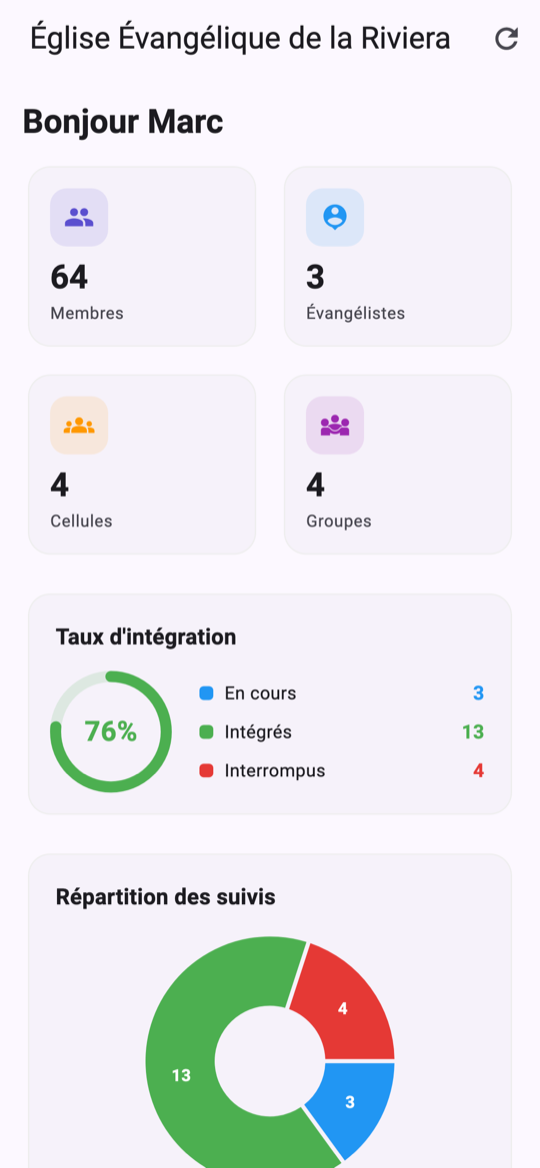
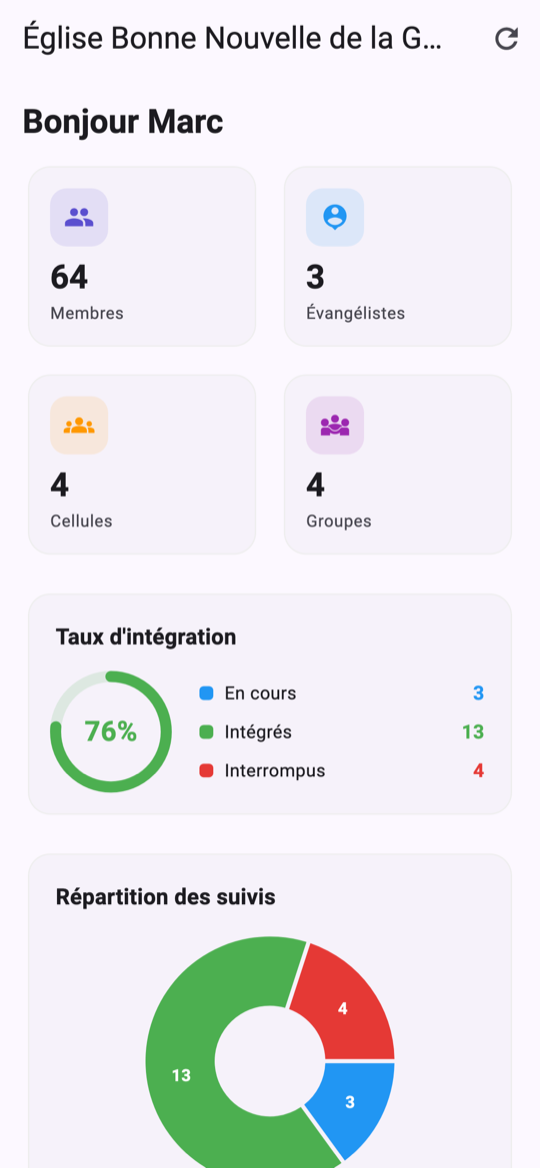
Démo Angré, captures refaites, défauts qu'elles ont révélés
- Captures de l'app (24, dont connexion par code, invitation, changer
  d'église) et du back-office sur l'Église Bonne Nouvelle de la Grâce de Angré.
- Invitation : retours à la ligne conservés (le widget de copie les écrasait),
  compte en lecture seule ; titre « Inviter … » et une seule poignée dans l'app.
- Numéro masqué lisible : « +225 07 •• •• •• 01 ».
- Présence du dimanche : s'ouvre sur le dernier dimanche, pas sur le jour de
  saisie (une présence datée d'un vendredi ne rejoint aucun culte).
- Prolonger : on part de 2 semaines à ajouter, pas de la durée entière (6+6).
- Guide d'utilisation accessible depuis les paramètres de l'app.
- Serveur factice des captures aligné sur le serveur (À attribuer compte aussi
  les fiches à compléter).

Changed region(s): [[0.0296, 0.0, 0.563, 0.0616], [0.6222, 0.0, 0.8296, 0.0616]]

diff --git a/flutter_app/test/support/demo_server.dart b/flutter_app/test/support/demo_server.dart
@@ -8,7 +8,13 @@
 /// pour que le manuel, l'app et le back-office racontent la même histoire.
 library;
 
-const demoChurch = 'Église Évangélique de la Riviera';
+const demoChurch = 'Église Bonne Nouvelle de la Grâce de Angré';
+const demoInvitation = 'Bonjour Fatou Cissé,\n\n'
+    'Vous avez un compte responsable de cellule dans l\'application Suivi Évangélisation '
+    '($demoChurch).\n'
+    '1. Installez l\'application : https://iyf.ebng.world/apps/suivi-evangelisation\n'
+    '2. Saisissez votre numéro +225 07 00 05 05 05\n'
+    '3. Recopiez le code reçu par WhatsApp ou SMS.';
 
 Map<String, dynamic> _week(int n, {bool culte = false, bool pointe = false, bool appel = false,
         bool visite = false, String etat = 'good', int score = 0, String notes = ''}) =>
@@ -71,7 +77,7 @@ Map<String, dynamic> _person(int id, String name, String first, String type,
     {
       'id': id, 'name': name, 'first_name': first, 'phone': '+225 07 00 ${id}0 ${id}0 $id',
       'gender': toComplete ? '' : gender, 'to_complete': toComplete, 'member_type': type,
-      'district_id': 1, 'district_name': 'Riviera 2',
+      'district_id': 1, 'district_name': 'Angré 8e tranche',
       'prayer_cell_id': cell.isEmpty ? false : 1, 'prayer_cell_name': cell,
       'age_group_id': group.isEmpty ? false : 1, 'age_group_name': group, 'age': age,
       'marital_status': 'single', 'invited_by_id': false, 'invited_by_name': '',
@@ -87,8 +93,8 @@ final List<Map<String, dynamic>> demoMembers = [
       label: '8 semaines — Événement d\'origine (Camp de Toussaint 2026)'),
   _person(13, 'Kouassi', 'Esther', 'new', age: 27),
   _person(14, 'Diallo', 'Moussa', 'interrupted', gender: 'male', age: 35),
-  _person(15, 'Ouattara', 'Fanta', 'integrated', cell: 'Cellule Riviera 2', group: 'Jeunes', age: 22),
-  _person(16, 'Yapi', 'Serge', 'established', gender: 'male', cell: 'Cellule Riviera 2', group: 'Mariés 25-35', age: 33),
+  _person(15, 'Ouattara', 'Fanta', 'integrated', cell: 'Cellule Angré 8e tranche', group: 'Jeunes', age: 22),
+  _person(16, 'Yapi', 'Serge', 'established', gender: 'male', cell: 'Cellule Angré 8e tranche', group: 'Mariés 25-35', age: 33),
   _person(17, 'Koffi', 'Jean', 'in_followup', gender: 'male', age: 28),
   _person(18, 'Aké', 'Nadège', 'new', toComplete: true),
 ];
@@ -106,8 +112,8 @@ final Map<String, dynamic> todoEvangelist = {
 };
 
 final Map<String, dynamic> todoManager = {
-  'status': 'success', 'count': 6,
-  'summary': '1\u00a0décision(s) à prendre, 2\u00a0personne(s) à attribuer, 1\u00a0évangéliste(s) en retard, 1\u00a0fiche(s) à compléter',
+  'status': 'success', 'count': 7,
+  'summary': '1\u00a0décision(s) à prendre, 3\u00a0personne(s) à attribuer, 1\u00a0évangéliste(s) en retard, 1\u00a0fiche(s) à compléter',
   'items': [
     {'kind': 'decision_due', 'followup_id': 101, 'member_id': 10,
      'title': 'Décision à prendre : Konan Aya',
@@ -115,6 +121,8 @@ final Map<String, dynamic> todoManager = {
     {'kind': 'to_assign', 'member_id': 12, 'title': 'À attribuer : Bamba Ibrahim',
      'detail': '8 semaines — Événement d\'origine (Camp de Toussaint 2026)'},
     {'kind': 'to_assign', 'member_id': 13, 'title': 'À attribuer : Kouassi Esther',
+     'detail': '6 semaines — Réglage de l\'église'},
+    {'kind': 'to_assign', 'member_id': 18, 'title': 'À attribuer : Aké Nadège',
      'detail': '6 semaines — Réglage de l\'église'},
     {'kind': 'to_complete', 'count': 1, 'title': '1\u00a0fiche(s) à compléter',
      'detail': 'Le sexe manque : il oriente le choix du groupe d\'âge.'},
@@ -133,15 +141,15 @@ final Map<String, dynamic> todoCellLeader = {
 
 final Map<String, dynamic> checkpointFanta = {
   'id': 7, 'member_id': 15, 'member_name': 'Ouattara Fanta', 'member_phone': '+225 07 00 15 15 15',
-  'prayer_cell_name': 'Cellule Riviera 2', 'milestone': '3m', 'is_catchup': false,
+  'prayer_cell_name': 'Cellule Angré 8e tranche', 'milestone': '3m', 'is_catchup': false,
   'due_date': '2026-10-15', 'state': 'planned', 'result': '', 'done_date': '',
   'service_count': 11, 'cell_count': 9, 'notes': '', 'baptized': false, 'has_mentor': true,
 };
 
 final Map<String, dynamic> memberYapi = {
-  ..._person(16, 'Yapi', 'Serge', 'established', gender: 'male', cell: 'Cellule Riviera 2',
+  ..._person(16, 'Yapi', 'Serge', 'established', gender: 'male', cell: 'Cellule Angré 8e tranche',
       group: 'Mariés 25-35', age: 33),
-  'date_of_birth': '1993-04-12', 'address': 'Riviera 2, près du marché', 'profession': 'Comptable',
+  'date_of_birth': '1993-04-12', 'address': 'Angré 8e tranche, près du marché', 'profession': 'Comptable',
   'salvation_date': '2026-01-18', 'can_edit': true, 'planned_followup_weeks': 0,
   'baptism_date': '2026-04-05', 'integration_date': '2026-03-15', 'established_date': '2026-09-16',
   'reopen_suggested': false,
@@ -180,7 +188,8 @@ Map<String, dynamic> demoResponse(String path, Map<String, dynamic> params, Stri
   if (ends('/followups/to_assign')) {
     return {
       'status': 'success',
-      'members': demoMembers.where((m) => m['member_type'] == 'new' && m['to_complete'] != true).toList(),
+      // Comme le serveur : toute nouvelle personne, fiche complète ou non.
+      'members': demoMembers.where((m) => m['member_type'] == 'new').toList(),
       'interrupted': [
         {...demoMembers.firstWhere((m) => m['id'] == 14), 'interrupted_on': '2026-09-28',
          'abandon_reason': 'moved', 'abandon_reason_label': 'A déménagé', 'abandon_note': 'Parti à Bouaké'},
@@ -211,12 +220,12 @@ Map<String, dynamic> demoResponse(String path, Map<String, dynamic> params, Stri
   }
   if (ends('/cells')) {
     return {'status': 'success', 'cells': [
-      {'id': 1, 'name': 'Cellule Riviera 2', 'leader_name': 'Fatou Cissé', 'leader_phone': '+225 07 00 05 05 05',
+      {'id': 1, 'name': 'Cellule Angré 8e tranche', 'leader_name': 'Fatou Cissé', 'leader_phone': '+225 07 00 05 05 05',
        'meeting_day': 'friday', 'meeting_time': '19:00', 'meeting_location': 'Chez la famille Cissé',
        'member_count': 2, 'members': [
          {'id': 15, 'name': 'Ouattara Fanta', 'phone': '+225 07 00 15 15 15'},
          {'id': 16, 'name': 'Yapi Serge', 'phone': '+225 07 00 16 16 16'}]},
-      {'id': 2, 'name': 'Cellule Palmeraie', 'leader_name': 'Eric Gnamien', 'leader_phone': '',
+      {'id': 2, 'name': 'Cellule Angré Château', 'leader_name': 'Eric Gnamien', 'leader_phone': '',
        'meeting_day': 'thursday', 'meeting_time': '18:30', 'meeting_location': '', 'member_count': 0,
        'members': []},
     ]};
@@ -230,7 +239,7 @@ Map<String, dynamic> demoResponse(String path, Map<String, dynamic> params, Stri
     ]};
   }
   if (ends('/districts')) {
-    return {'status': 'success', 'districts': [{'id': 1, 'name': 'Riviera 2', 'city': 'Abidjan'}]};
+    return {'status': 'success', 'districts': [{'id': 1, 'name': 'Angré 8e tranche', 'city': 'Cocody'}]};
   }
   if (ends('/dashboard')) {
     return {'status': 'success', 'dashboard': {
@@ -247,16 +256,23 @@ Map<String, dynamic> demoResponse(String path, Map<String, dynamic> params, Stri
   if (ends('/mobile_users')) {
     return {'status': 'success', 'users': [
       {'id': 1, 'name': 'Pasteur Marc Kouadio', 'phone': '+225 07 00 09 09 09', 'role': 'manager', 'active': true,
-       'church_id': 1, 'church_name': demoChurch, 'pin_set': true, 'last_login': '2026-10-15 08:12:00'},
+       'church_id': 1, 'church_name': demoChurch, 'email': '', 'last_login': '2026-10-15 08:12:00'},
       {'id': 2, 'name': 'Awa Koné', 'phone': '+225 07 00 01 01 01', 'role': 'evangelist', 'active': true,
-       'church_id': 1, 'church_name': demoChurch, 'pin_set': true, 'last_login': '2026-10-15 19:40:00'},
+       'church_id': 1, 'church_name': demoChurch, 'email': '', 'last_login': '2026-10-15 19:40:00'},
       {'id': 3, 'name': 'Paul Yao', 'phone': '+225 07 00 02 02 02', 'role': 'evangelist', 'active': true,
-       'church_id': 1, 'church_name': demoChurch, 'pin_set': true, 'last_login': ''},
+       'church_id': 1, 'church_name': demoChurch, 'email': '', 'last_login': ''},
       {'id': 4, 'name': 'Fatou Cissé', 'phone': '+225 07 00 05 05 05', 'role': 'cell_leader', 'active': true,
-       'church_id': 1, 'church_name': demoChurch, 'pin_set': false, 'last_login': ''},
+       'church_id': 1, 'church_name': demoChurch, 'email': '', 'last_login': ''},
     ]};
   }
   if (ends('/cooking_rotation')) return {'status': 'success', 'rotations': []};
+  if (ends('/auth/request_otp')) {
+    return {'status': 'success', 'identifier_masked': '+225 07 •• •• •• 01', 'channel': 'phone',
+            'message': 'Si ce numéro ou cette adresse a un compte, un code vient d\'y être envoyé.'};
+  }
+  if (ends('/user/share_message')) {
+    return {'status': 'success', 'message': demoInvitation, 'phone': '+225 07 00 05 05 05'};
+  }
   return {'status': 'success'};
 }
 
@@ -270,5 +286,15 @@ Map<String, dynamic> demoUser(String role) => {
         _ => 'Pasteur Marc Kouadio',
       },
       if (role == 'evangelist') 'evangelist_id': 1,
-      if (role == 'cell_leader') ...{'prayer_cell_id': 1, 'prayer_cell_name': 'Cellule Riviera 2'},
+      if (role == 'cell_leader') ...{'prayer_cell_id': 1, 'prayer_cell_name': 'Cellule Angré 8e tranche'},
     };
+
+/// Les comptes de la personne connectée : le pasteur Kouadio est aussi
+/// évangéliste dans une autre église (même numéro) — d'où « Changer d'église ».
+List<Map<String, dynamic>> demoAccounts(String role) => role == 'manager'
+    ? [
+        {'id': 1, 'church_name': demoChurch, 'role': 'manager', 'role_label': 'Responsable des évangélistes'},
+        {'id': 5, 'church_name': 'Église Bonne Nouvelle de la Grâce de Yopougon', 'role': 'evangelist',
+         'role_label': 'Évangéliste'},
+      ]
+    : [];

diff --git a/flutter_app/test/formation_shots_test.dart b/flutter_app/test/formation_shots_test.dart
@@ -12,6 +12,7 @@ import 'package:church_followup_mobile/screens/followups/followup_list_screen.da
 import 'package:church_followup_mobile/screens/followups/to_assign_screen.dart';
 import 'package:church_followup_mobile/screens/home/home_screen.dart';
 import 'package:church_followup_mobile/screens/members/member_form_screen.dart';
+import 'package:church_followup_mobile/screens/settings/settings_screen.dart';
 import 'package:flutter/material.dart';
 import 'package:flutter_test/flutter_test.dart';
 
@@ -42,6 +43,11 @@ void main() {
 
   // ─── Tout le monde ────────────────────────────────────────────────
   testWidgets('connexion', (t) => shoot(t, name: 'connexion', screen: const LoginScreen(), role: ''));
+  testWidgets('connexion_code', (t) => shoot(t, name: 'connexion_code', screen: const LoginScreen(), role: '',
+      avantLaPhoto: (t) async {
+        await t.enterText(find.byType(TextFormField).first, '07 00 01 01 01');
+        await tapText(t, 'Recevoir un code');
+      }));
 
   // ─── Évangéliste ──────────────────────────────────────────────────
   testWidgets('evangeliste_a_faire', (t) => shoot(t, name: 'evangeliste_a_faire', screen: const HomeScreen()));
@@ -80,6 +86,13 @@ void main() {
   testWidgets('responsable_suivis', (t) => shoot(t, name: 'responsable_suivis',
       screen: const FollowupListScreen(), role: 'manager'));
   testWidgets('comptes', (t) => shoot(t, name: 'comptes', screen: const MobileUsersScreen(), role: 'manager'));
+  testWidgets('invitation', (t) => shoot(t, name: 'invitation', screen: const MobileUsersScreen(), role: 'manager',
+      avantLaPhoto: (t) async {
+        await t.tap(find.byTooltip('Envoyer l\'invitation').last);
+        await t.pumpAndSettle();
+      }));
+  testWidgets('changer_eglise', (t) => shoot(t, name: 'changer_eglise', screen: const SettingsScreen(), role: 'manager',
+      avantLaPhoto: (t) => tapText(t, 'Changer d\'église')));
   testWidgets('fiche_parcours', (t) => shoot(t, name: 'fiche_parcours', role: 'manager',
       screen: const MemberFormScreen(memberId: 16), avantLaPhoto: (t) async {
         await t.scrollUntilVisible(find.text('Parcours'), 300, scrollable: find.byType(Scrollable).first);

diff --git a/flutter_app/test/login_test.dart b/flutter_app/test/login_test.dart
@@ -30,7 +30,7 @@ void main() {
       calls.add({'path': request.url.path, 'auth': request.headers['Authorization'], ...params});
       final Map<String, dynamic> result;
       if (request.url.path.endsWith('/auth/request_otp')) {
-        result = {'status': 'success', 'identifier_masked': '+225070 •• •• •• 01', 'debug_otp': '123456'};
+        result = {'status': 'success', 'identifier_masked': '+225 07 •• •• •• 01', 'debug_otp': '123456'};
       } else if (request.url.path.endsWith('/auth/verify_otp')) {
         result = params['code'] == '123456'
             ? {
@@ -62,7 +62,7 @@ void main() {
     await tester.pumpAndSettle();
     expect(calls.last['path'], '/api/church/auth/request_otp');
     expect(calls.last['auth'], isNull, reason: 'Pas de session avant le code');
-    expect(find.textContaining('+225070 •• •• •• 01'), findsOneWidget);
+    expect(find.textContaining('+225 07 •• •• •• 01'), findsOneWidget);
 
     // Un mauvais code laisse sur l'écran, message à l'appui.
     await tester.enterText(find.byType(TextFormField).first, '000000');

diff --git a/flutter_app/lib/screens/attendance/attendance_sunday_screen.dart b/flutter_app/lib/screens/attendance/attendance_sunday_screen.dart
@@ -5,6 +5,12 @@ import '../../providers/member_provider.dart';
 import '../../providers/organization_provider.dart';
 import '../../widgets/common.dart';
 
+/// Le dernier dimanche, ou ce jour s'il en est un.
+DateTime lastSunday(DateTime now) {
+  final day = DateTime(now.year, now.month, now.day);
+  return day.subtract(Duration(days: day.weekday % 7));
+}
+
 class AttendanceSundayScreen extends StatefulWidget {
   const AttendanceSundayScreen({super.key});
 
@@ -13,7 +19,10 @@ class AttendanceSundayScreen extends StatefulWidget {
 }
 
 class _AttendanceSundayScreenState extends State<AttendanceSundayScreen> {
-  DateTime _selectedDate = DateTime.now();
+  /// Le dernier dimanche (aujourd'hui si c'est dimanche) : on pointe souvent
+  /// le culte le lundi ou le mardi, et une présence datée du jour de saisie
+  /// ne serait rapprochée d'aucun culte.
+  DateTime _selectedDate = lastSunday(DateTime.now());
   final Set<int> _presentIds = {};
   bool _isSaving = false;
   String _search = '';

diff --git a/flutter_app/lib/screens/settings/settings_screen.dart b/flutter_app/lib/screens/settings/settings_screen.dart
@@ -101,6 +101,18 @@ class SettingsScreen extends StatelessWidget {
                       style: TextStyle(color: Colors.grey)),
                 ),
                 const Divider(height: 1),
+                // Le guide vit sur le serveur (une seule source pour la page et
+                // le PDF) : il est à jour sans nouvelle version de l'app.
+                ListTile(
+                  leading: const Icon(Icons.menu_book_outlined),
+                  title: const Text('Guide d\'utilisation'),
+                  trailing: const Icon(Icons.open_in_new, size: 18),
+                  onTap: () => launchUrl(
+                    Uri.parse('${auth.serverUrl}/apps/${AppConstants.appSlug}/guide'),
+                    mode: LaunchMode.externalApplication,
+                  ),
+                ),
+                const Divider(height: 1),
                 ListTile(
                   leading: const Icon(Icons.storage_outlined),
                   title: const Text('Vider le cache'),

diff --git a/flutter_app/lib/screens/followups/followup_detail_screen.dart b/flutter_app/lib/screens/followups/followup_detail_screen.dart
@@ -2,7 +2,6 @@ import 'package:flutter/material.dart';
 import 'package:provider/provider.dart';
 import '../../core/constants.dart';
 import '../../core/theme.dart';
-import '../../providers/auth_provider.dart';
 import '../../providers/followup_provider.dart';
 import '../../providers/organization_provider.dart';
 import '../../widgets/common.dart';
@@ -107,7 +106,8 @@ class _FollowupDetailScreenState extends State<FollowupDetailScreen> {
   // ─── Prolonger : nombre de semaines au choix ──────────────────────
 
   Future<void> _showExtendDialog(Map<String, dynamic> data) async {
-    int weeks = context.read<AuthProvider>().defaultFollowupWeeks;
+    // Des semaines à AJOUTER : on part de 2, pas de la durée entière (6 + 6).
+    int weeks = 2;
     final confirmed = await showDialog<bool>(
       context: context,
       builder: (ctx) => StatefulBuilder(

diff --git a/flutter_app/lib/screens/admin/mobile_users_screen.dart b/flutter_app/lib/screens/admin/mobile_users_screen.dart
@@ -148,17 +148,9 @@ class _MobileUsersScreenState extends State<MobileUsersScreen> {
           child: Column(
             mainAxisSize: MainAxisSize.min,
             children: [
-              Container(
-                width: 40,
-                height: 4,
-                margin: const EdgeInsets.only(bottom: 16),
-                decoration: BoxDecoration(
-                  color: Colors.grey.shade300,
-                  borderRadius: BorderRadius.circular(2),
-                ),
-              ),
+              // La poignée vient du thème (showDragHandle) : pas de seconde.
               Text(
-                'Partager les identifiants de $userName',
+                'Inviter $userName',
                 style: const TextStyle(fontSize: 16, fontWeight: FontWeight.bold),
                 textAlign: TextAlign.center,
               ),

diff --git a/flutter_app/test/api_service_test.dart b/flutter_app/test/api_service_test.dart
@@ -92,7 +92,7 @@ void main() {
         sent.add(Map<String, dynamic>.from(jsonDecode(request.body)['params']));
         headers.add(request.headers);
         return http.Response(
-            jsonEncode({'result': {'status': 'success', 'identifier_masked': '+225070 •• •• •• 01'}}), 200,
+            jsonEncode({'result': {'status': 'success', 'identifier_masked': '+225 07 •• •• •• 01'}}), 200,
             headers: {'content-type': 'application/json; charset=utf-8'});
       });
       final api = ApiService(client: client)..configure(baseUrl: 'https://test');

diff --git a/flutter_app/test/attendance_date_test.dart b/flutter_app/test/attendance_date_test.dart
@@ -1,0 +1,13 @@
+import 'package:church_followup_mobile/screens/attendance/attendance_sunday_screen.dart';
+import 'package:flutter_test/flutter_test.dart';
+
+void main() {
+  test('le pointage s\'ouvre sur le dernier dimanche', () {
+    // Vendredi 16 octobre 2026 → dimanche 11.
+    expect(lastSunday(DateTime(2026, 10, 16, 18)), DateTime(2026, 10, 11));
+    // Un dimanche reste ce dimanche.
+    expect(lastSunday(DateTime(2026, 10, 11, 9)), DateTime(2026, 10, 11));
+    // Lundi → la veille.
+    expect(lastSunday(DateTime(2026, 10, 12)), DateTime(2026, 10, 11));
+  });
+}

diff --git a/flutter_app/test/support/shoot.dart b/flutter_app/test/support/shoot.dart
@@ -62,7 +62,7 @@ Future<void> _shoot(
   final api = ApiService(client: client)..configure(baseUrl: 'https://demo', token: 'demo');
   final auth = AuthProvider(api: api);
   await tester.pump();
-  if (role.isNotEmpty) auth.debugSignIn(demoUser(role));
+  if (role.isNotEmpty) auth.debugSignIn(demoUser(role), accounts: demoAccounts(role));
 
   await tester.pumpWidget(MultiProvider(
     providers: [

diff --git a/controllers/mobile_api.py b/controllers/mobile_api.py
@@ -88,7 +88,9 @@ def _mask(identifier, kind):
     if kind == 'email':
         local, _sep, domain = identifier.partition('@')
         return '%s•••@%s' % (local[:1], domain)
-    return '%s •• •• •• %s' % (identifier[:7], identifier[-2:])
+    # « +225 07 •• •• •• 01 » : l'indicatif, l'opérateur, les deux derniers chiffres.
+    head = '+225 %s' % identifier[4:6] if identifier.startswith('+225') else identifier[:-8]
+    return '%s •• •• •• %s' % (head, identifier[-2:])
 
 
 # ─── Lecture des paramètres ──────────────────────────────────────────
